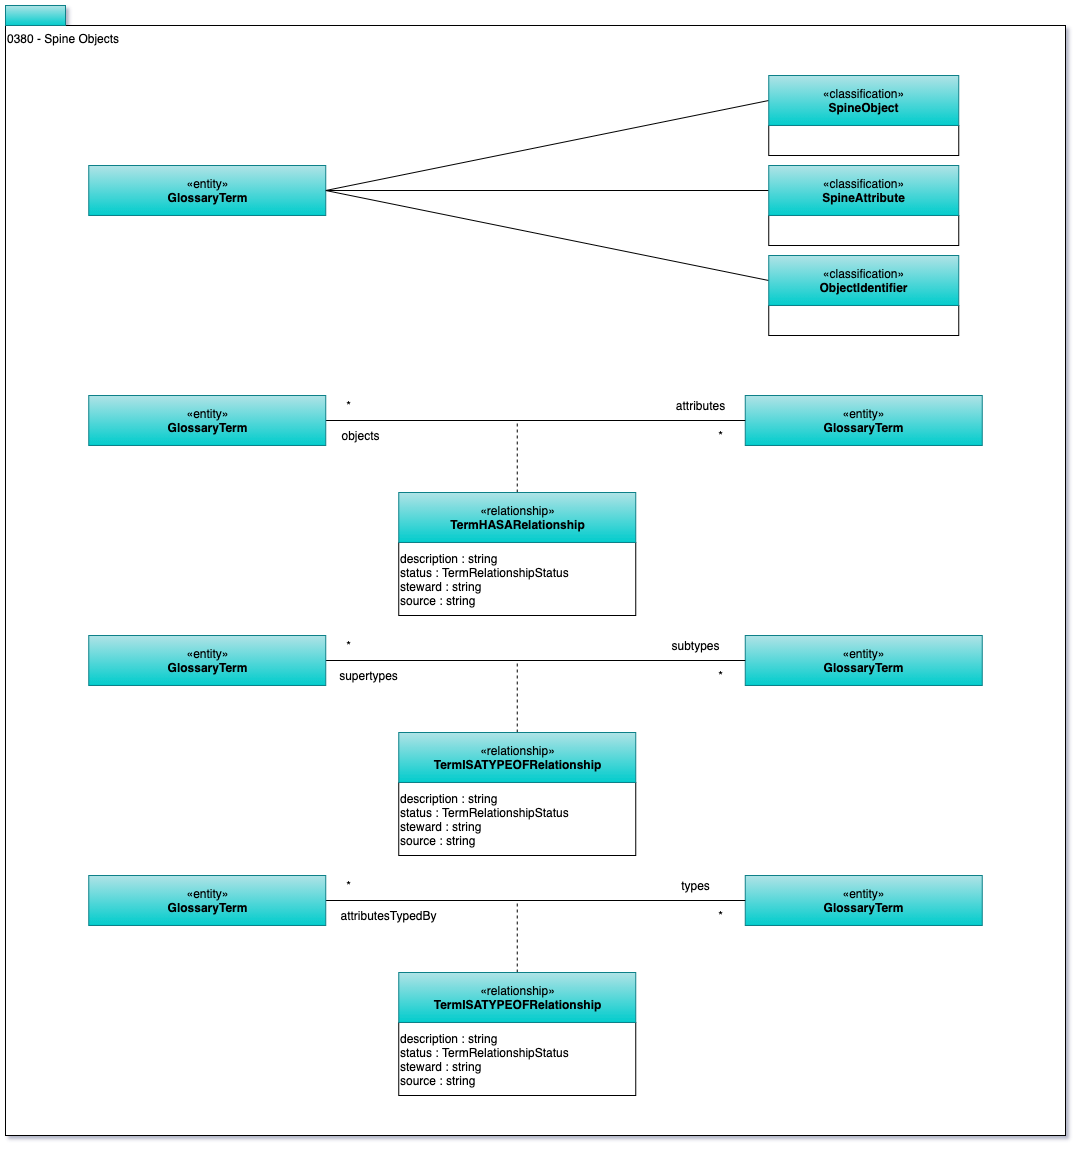
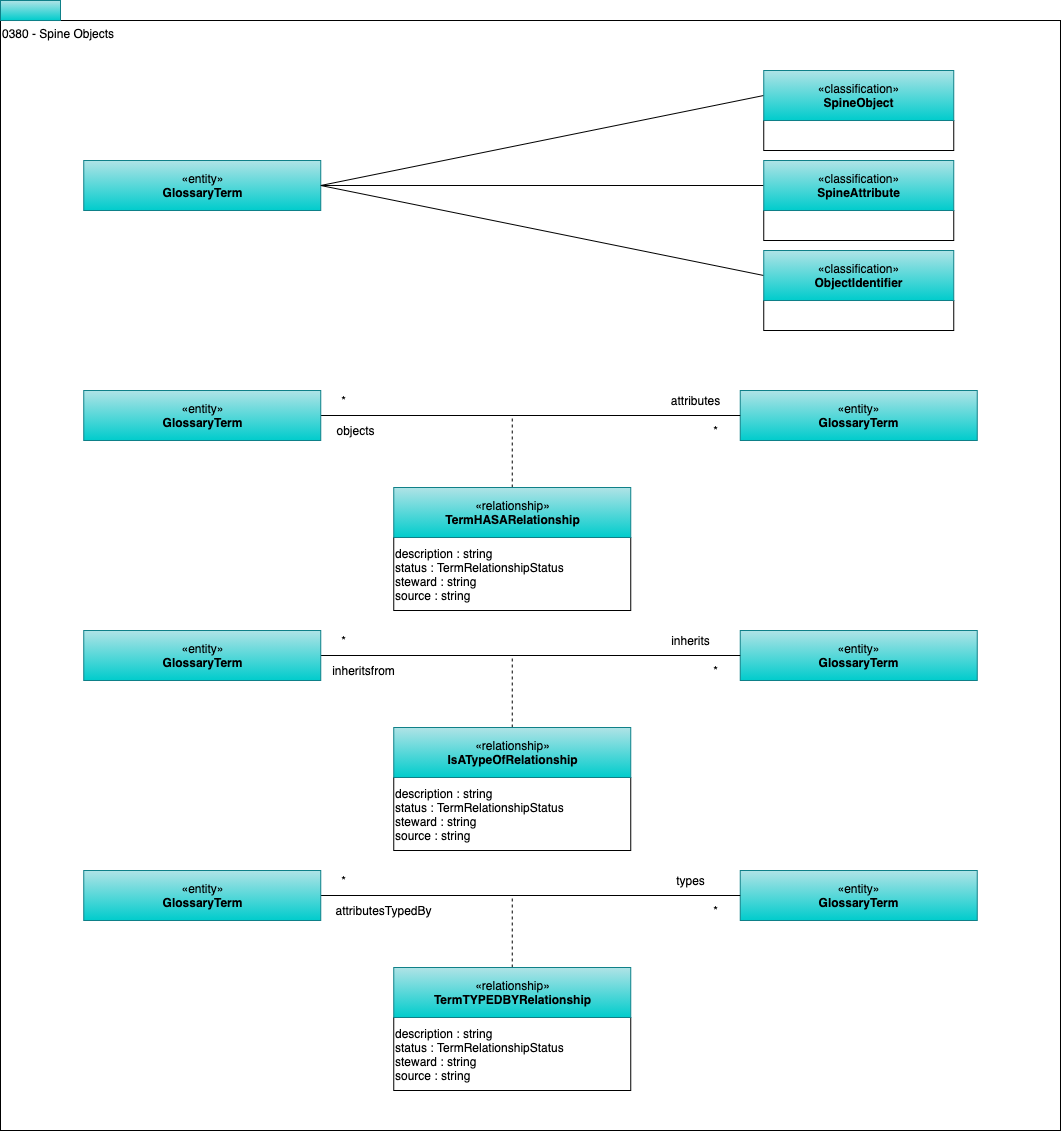
#5305 amend UML

diff --git a/open-metadata-publication/website/open-metadata-types/0380-Spine-Objects.md b/open-metadata-publication/website/open-metadata-types/0380-Spine-Objects.md
@@ -20,9 +20,11 @@ describe spine object.
 Note that a term may be a spine object and/or a spine attribute and/or an object identifier at the same time.
 
 * **TermHASARelationship** - is a term relationship between a term representing a SpineObject and a term representing a SpineAttribute.
-* **TermISATYPEOFRelationship** - is a term relationship between two SpineObjects saying that one is the subtype (specialisation) of the other.
+* **IsATypeOfRelationship** - is a term relationship between two SpineObjects saying that one is the subtype (specialisation) of the other.
 * **TermTYPEDBYRelationship** - is a term relationship between a SpineAttribute and a SpineObject to say that the SpineAttribute is implemented using a type represented by the **SpineObject**.
 
+The following relationship is deprecated, use IsATypeOfRelationship instead: 
+* **TermISATYPEOFRelationship** - Deprecated is a term relationship between two SpineObjects saying that one is the subtype (specialisation) of the other.
 
 Return to [Area 3](Area-3-models.md).
 
